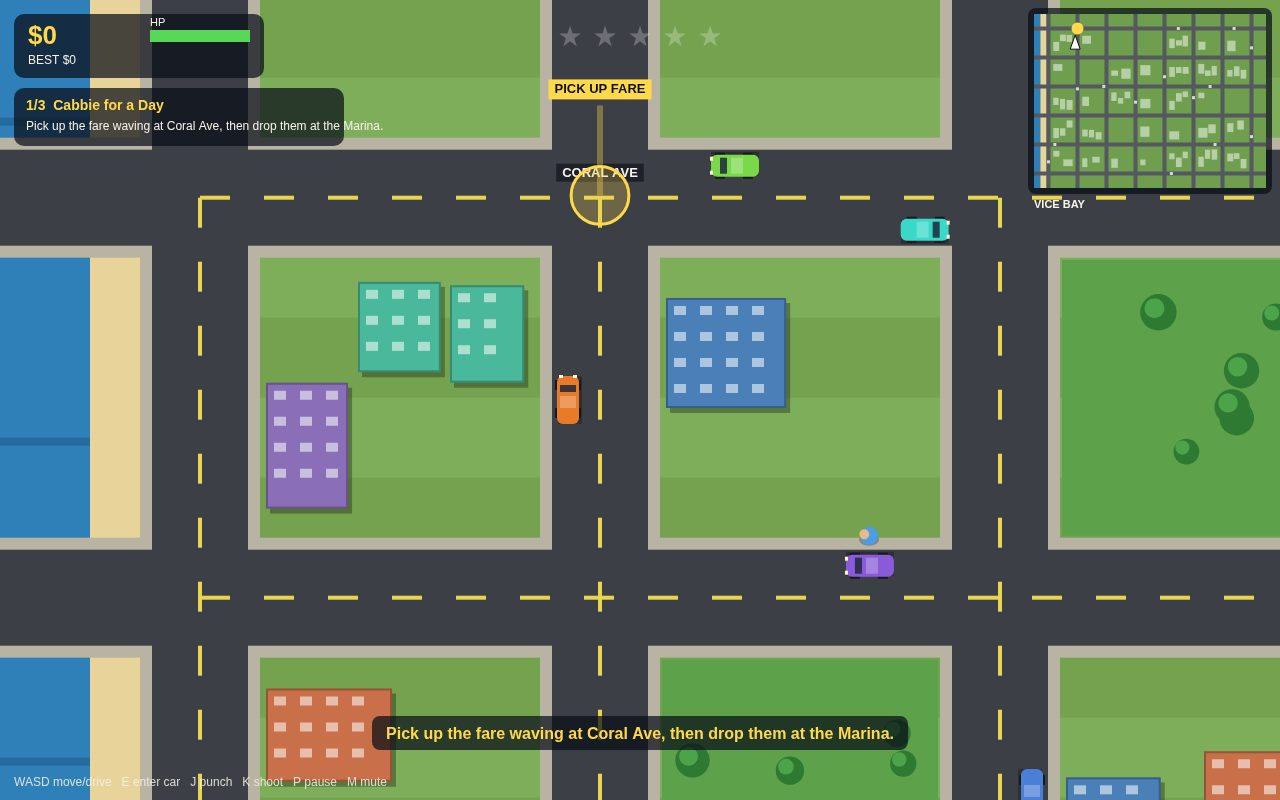
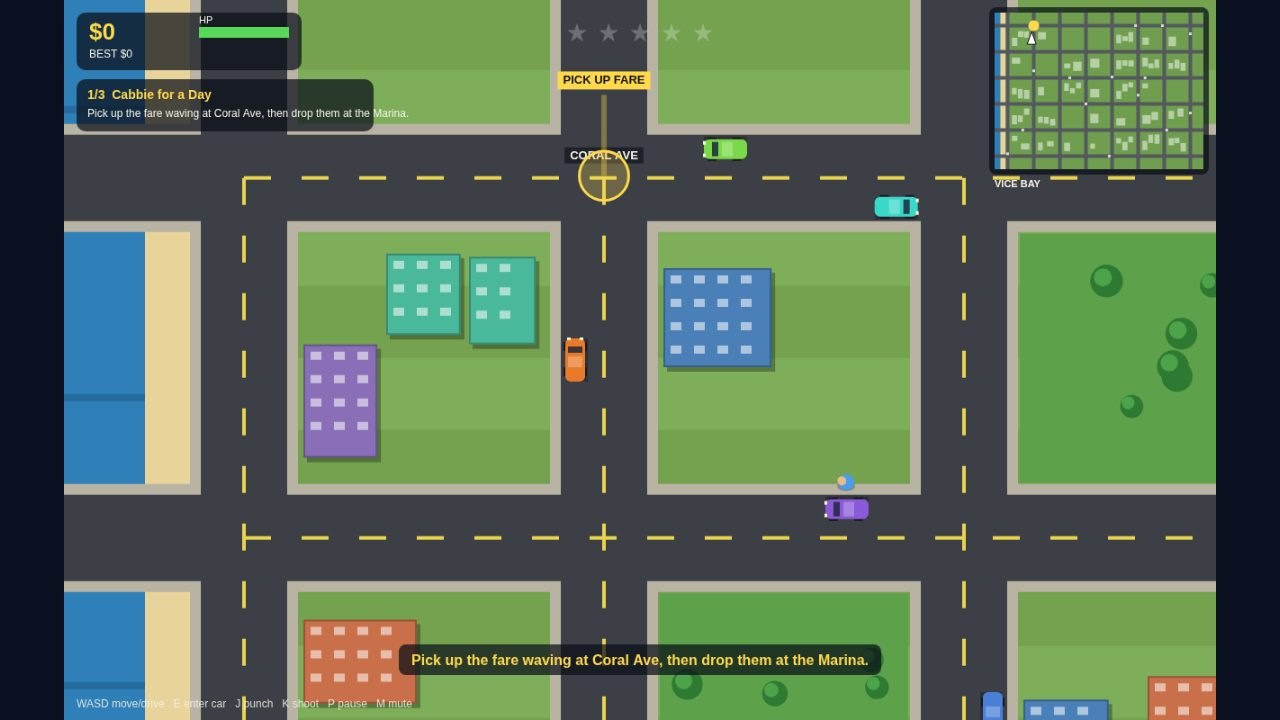
Revise Vice Bay gameplay after playtest

diff --git a/game/src/main.js b/game/src/main.js
@@ -567,7 +567,34 @@ export class Game {
       this.cops = this.cops.filter((c) => dist(c, this.player) < 900);
     }
     for (const cop of this.cops) {
-      const d = dist(cop, this.player);
+      let d = dist(cop, this.player);
+      // A cop that stops closing in is grinding against a building: after
+      // a couple of seconds with no progress, drop it back onto a road
+      // near the player so the chase stays live instead of stalling out.
+      if (this.wanted > 0) {
+        if (cop.lastDist == null) cop.lastDist = d;
+        if (d > cop.lastDist - 2) cop.stuck = (cop.stuck || 0) + dt;
+        else cop.stuck = 0;
+        cop.lastDist = d;
+        if ((cop.stuck || 0) > 2.5) {
+          // Aim for a road point ~550 px out; keep the closest attempt
+          // instead of a blind last try so a cop never lands across town.
+          let spot = randomRoadPoint(this.rng, this.city);
+          let bestScore = Math.abs(dist(spot, this.player) - 550);
+          for (let tries = 0; tries < 40; tries++) {
+            const cand = randomRoadPoint(this.rng, this.city);
+            const score = Math.abs(dist(cand, this.player) - 550);
+            if (score < bestScore) { spot = cand; bestScore = score; }
+            if (bestScore < 120) break;
+          }
+          cop.x = spot.x;
+          cop.y = spot.y;
+          cop.speed = 0;
+          cop.stuck = 0;
+          cop.lastDist = dist(cop, this.player);
+          d = dist(cop, this.player);
+        }
+      }
       const targetAngle = angleTo(cop, this.player);
       const top = 360 + this.wanted * 26;
       cop.speed = Math.min(top, cop.speed + 320 * dt);
